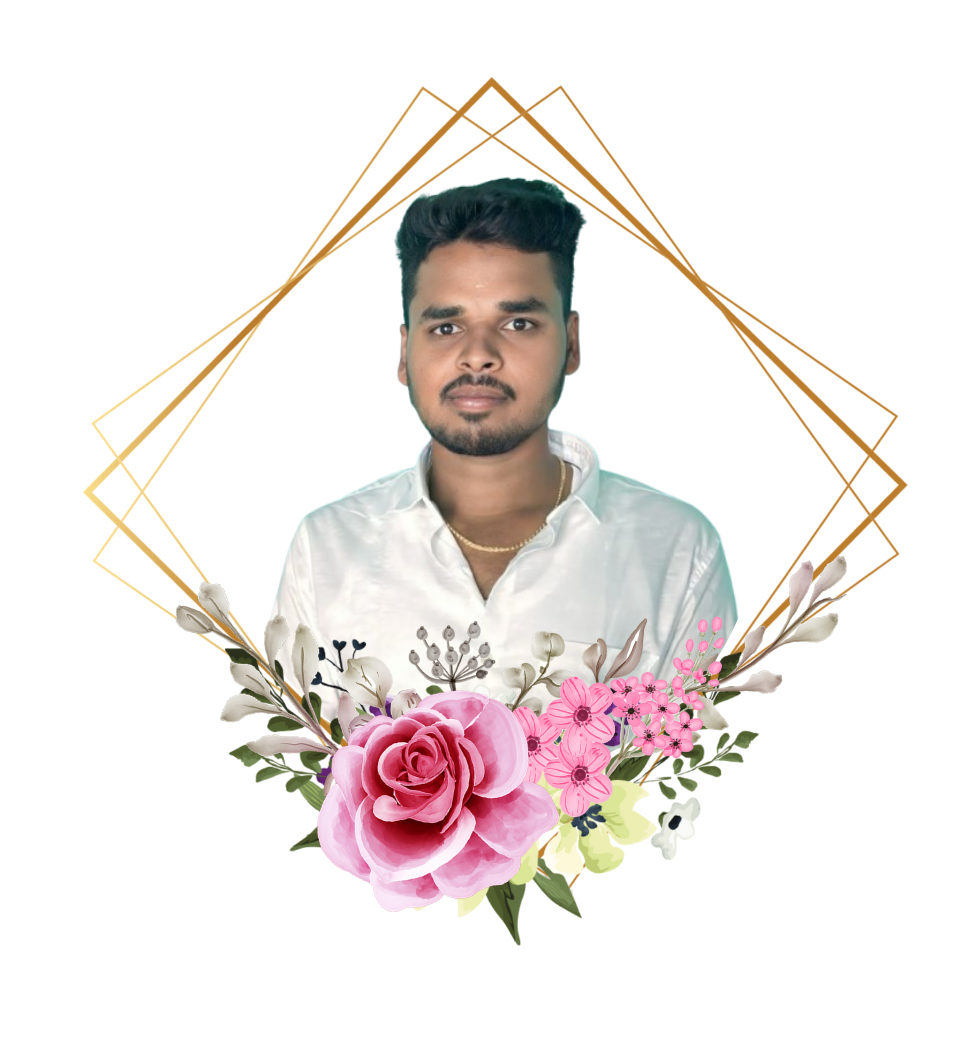
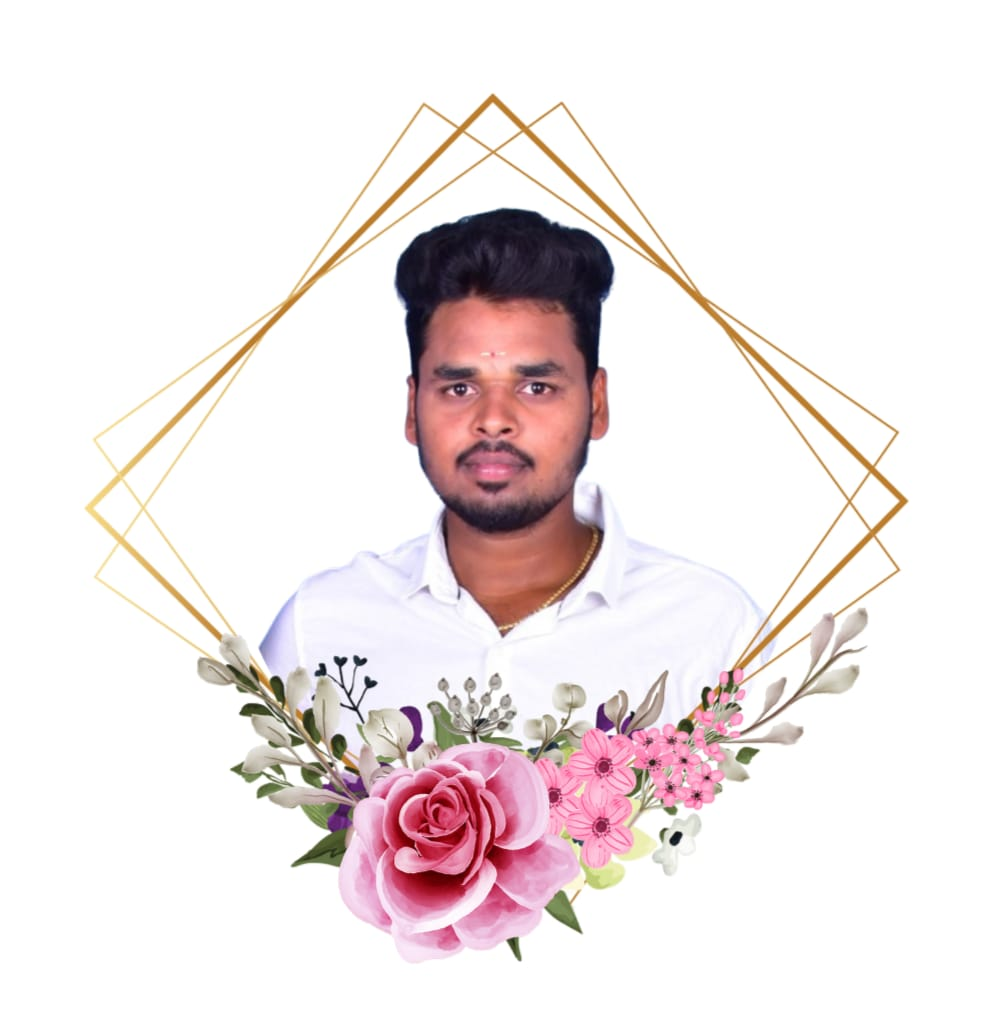
image changes

Changed region(s): [[0.0918, 0.0606, 0.9184, 0.9394]]

diff --git a/frontend/src/components/GallerySection.tsx b/frontend/src/components/GallerySection.tsx
@@ -11,6 +11,7 @@ const photoList1 = [
   "/assets/couple/bride6.jpg",
   "/assets/family/family13.jpg",
   "/assets/couple/bride7.jpg",
+  "/assets/family/family19.jpg",
 ];
 
 const photoList2 = [
@@ -20,9 +21,12 @@ const photoList2 = [
   "/assets/couple/couple3.jpg",
   "/assets/family/family8.jpg",
   "/assets/couple/groom3.jpg",
+  "/assets/family/family20.jpg",
   "/assets/family/family11.jpg",
   "/assets/couple/groom7.jpg",
   "/assets/family/family12.jpg",
+  "/assets/family/family14.jpg",
+  "/assets/family/family16.jpg",
 ];
 
 const photoList3 = [
@@ -34,7 +38,8 @@ const photoList3 = [
   "/assets/couple/groom4.jpg",
   "/assets/family/family12.jpg",
   "/assets/couple/bride11.jpg",
-  "/assets/family/family14.jpg",
+  "/assets/family/family15.jpg",
+  "/assets/family/family17.jpg",
 ];
 
 const textVariants = {

diff --git a/frontend/src/components/FamilyIntro.tsx b/frontend/src/components/FamilyIntro.tsx
@@ -15,6 +15,7 @@ const photoList1 = [
   "/assets/family/family1.jpg",
   "/assets/couple/bride5.jpg",
   "/assets/couple/groom1.jpg",
+  "/assets/family/family18.jpg",
 ];
 
 const photoList2 = [
